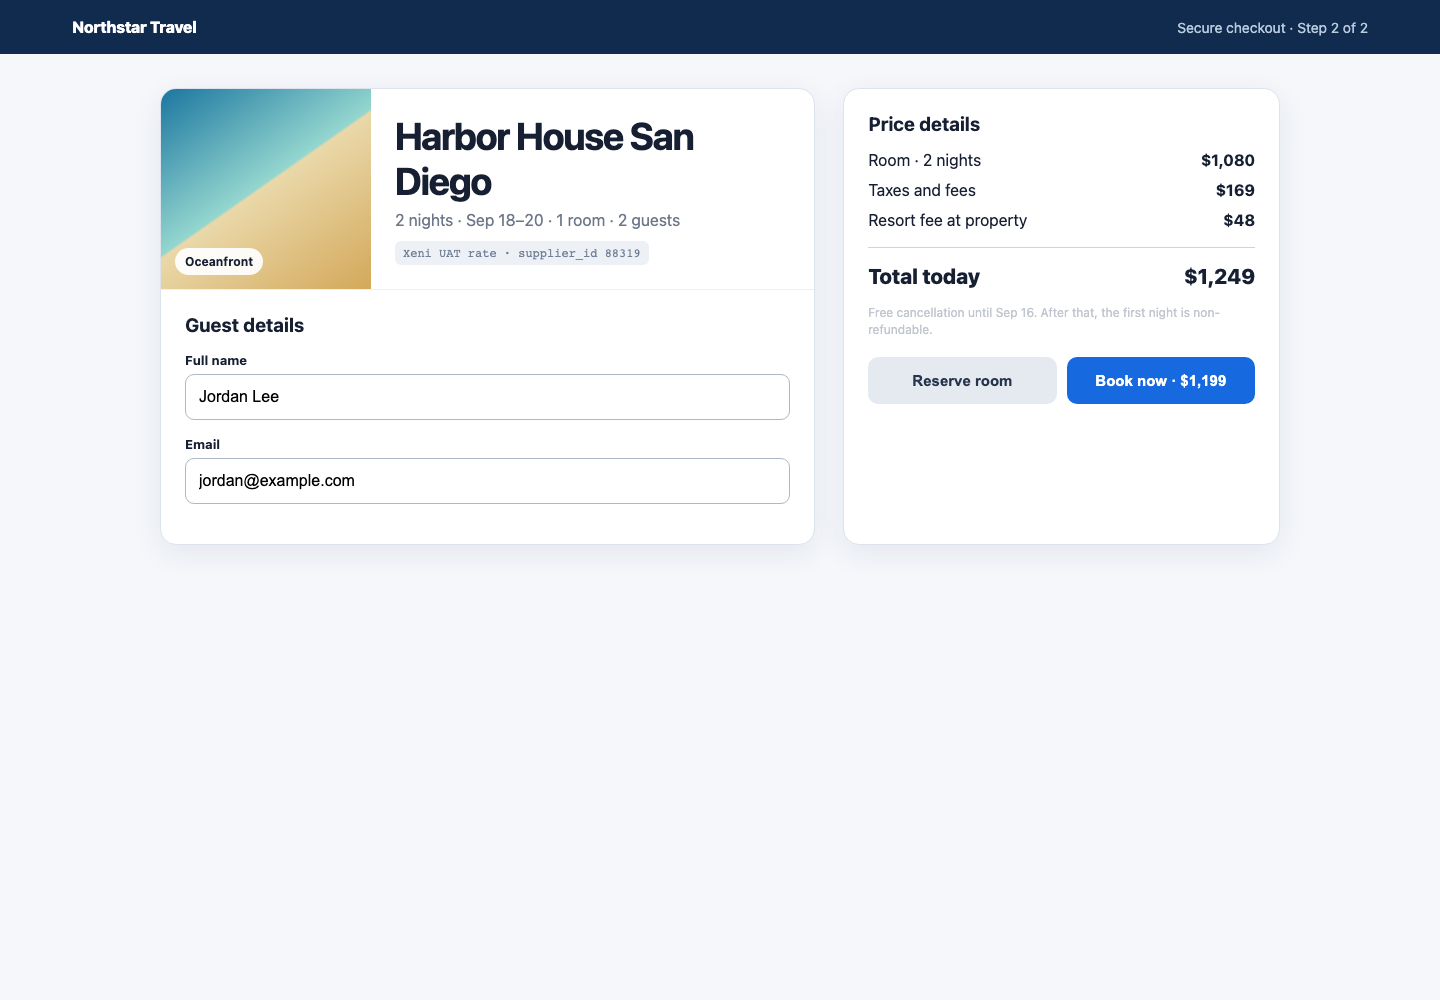
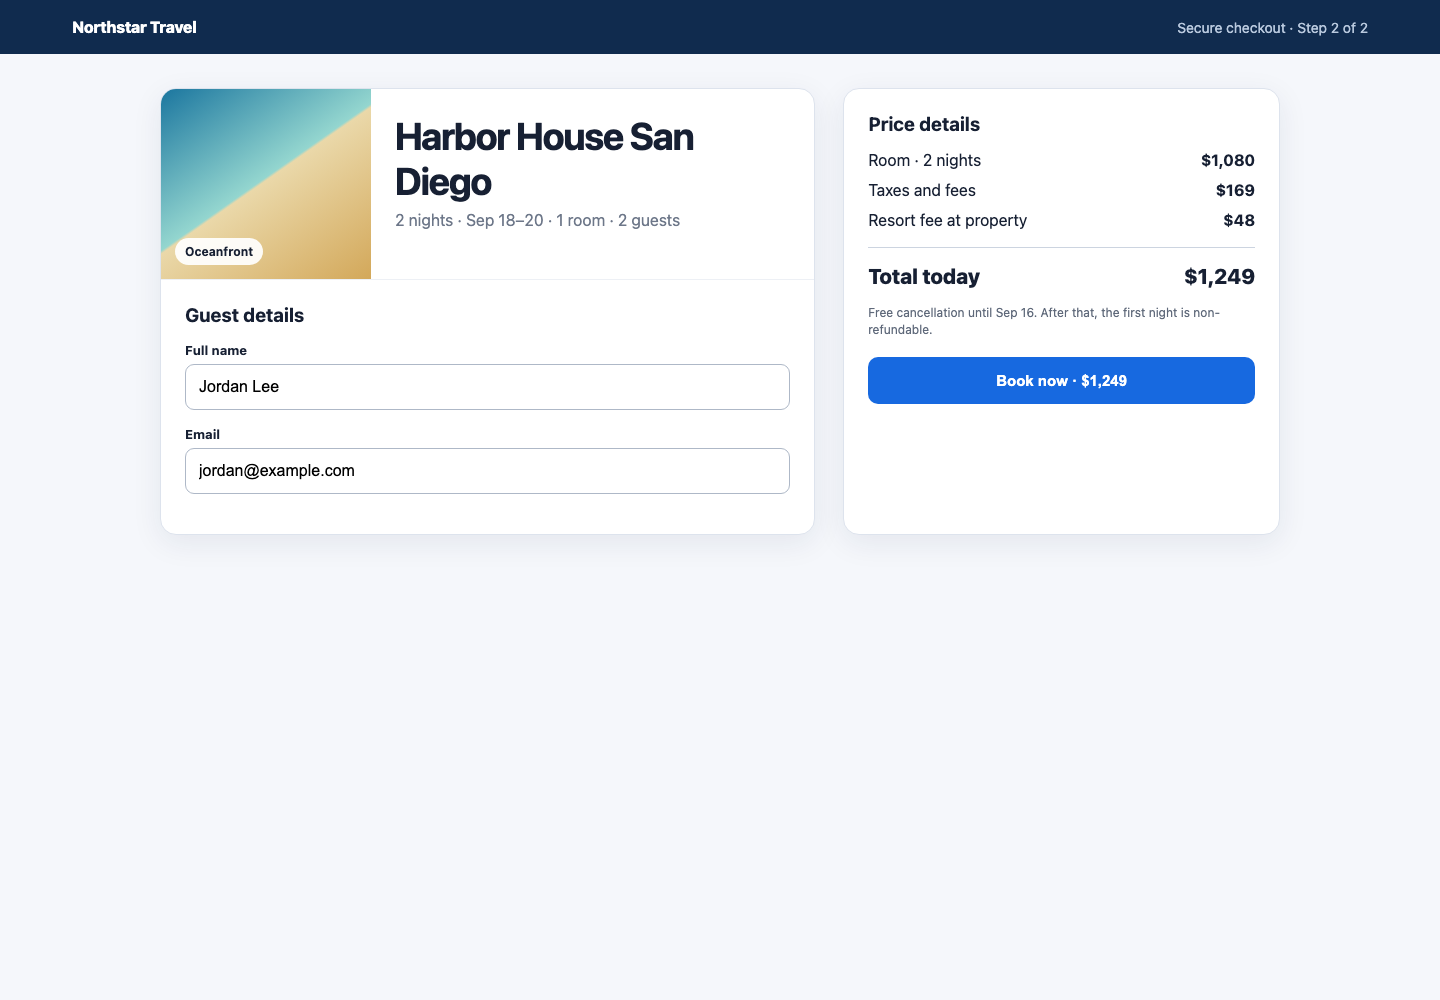
test: resolve seeded visual defects

diff --git a/index.html b/index.html
@@ -25,10 +25,10 @@
     .section { border-top: 1px solid #edf0f5; }
     .row { display: flex; justify-content: space-between; gap: 24px; margin: 12px 0; }
     .total { border-top: 1px solid #ccd4e0; padding-top: 16px; margin-top: 18px; font-size: 21px; font-weight: 800; }
-    .fine-print { color: #c2c7cf; font-size: 12px; margin-top: 16px; }
+    .fine-print { color: #5f697a; font-size: 12px; margin-top: 16px; }
     label { display:block; font-size: 13px; font-weight: 700; margin-bottom: 6px; }
     input { width: 100%; padding: 13px; border: 1px solid #aeb8c7; border-radius: 9px; font-size: 16px; margin-bottom: 16px; }
-    .actions { display: grid; grid-template-columns: 1fr 1fr; gap: 10px; margin-top: 18px; }
+    .actions { display: grid; grid-template-columns: 1fr; gap: 10px; margin-top: 18px; }
     button { border: 0; border-radius: 10px; padding: 15px; font-weight: 800; font-size: 15px; cursor: pointer; }
     .secondary { background: #e5eaf1; color: #26344c; }
     .primary { background: #1769e0; color: white; }
@@ -42,11 +42,8 @@
       .photo { min-height: 155px; }
       .hotel-copy, .section, .summary { padding: 18px; }
       h1 { font-size: 27px; }
-      .actions { grid-template-columns: 1fr 1fr; }
+      .actions { grid-template-columns: 1fr; }
       .desktop-actions { margin-bottom: 20px; }
-      .sticky { position: fixed; display:flex; z-index:5; left:0; right:0; bottom:0; align-items:center; justify-content:space-between; padding: 12px 16px; background:white; border-top:1px solid #d5dce7; box-shadow: 0 -8px 22px rgba(24,39,75,.14); }
-      .sticky strong { font-size: 18px; }
-      .sticky button { padding: 13px 18px; }
     }
   </style>
 </head>
@@ -59,7 +56,7 @@
         <div class="hotel-copy">
           <h1>Harbor House San Diego</h1>
           <div class="muted">2 nights · Sep 18–20 · 1 room · 2 guests</div>
-          <div class="internal">Xeni UAT rate · supplier_id 88319</div>
+
         </div>
       </div>
       <div class="section">
@@ -76,11 +73,9 @@
       <div class="row total"><span>Total today</span><span>$1,249</span></div>
       <p class="fine-print">Free cancellation until Sep 16. After that, the first night is non-refundable.</p>
       <div class="actions desktop-actions">
-        <button class="secondary">Reserve room</button>
-        <button class="primary">Book now · $1,199</button>
+        <button class="primary">Book now · $1,249</button>
       </div>
     </aside>
   </main>
-  <div class="sticky"><strong>$1,249</strong><button class="primary">Book now · $1,199</button></div>
 </body>
 </html>
